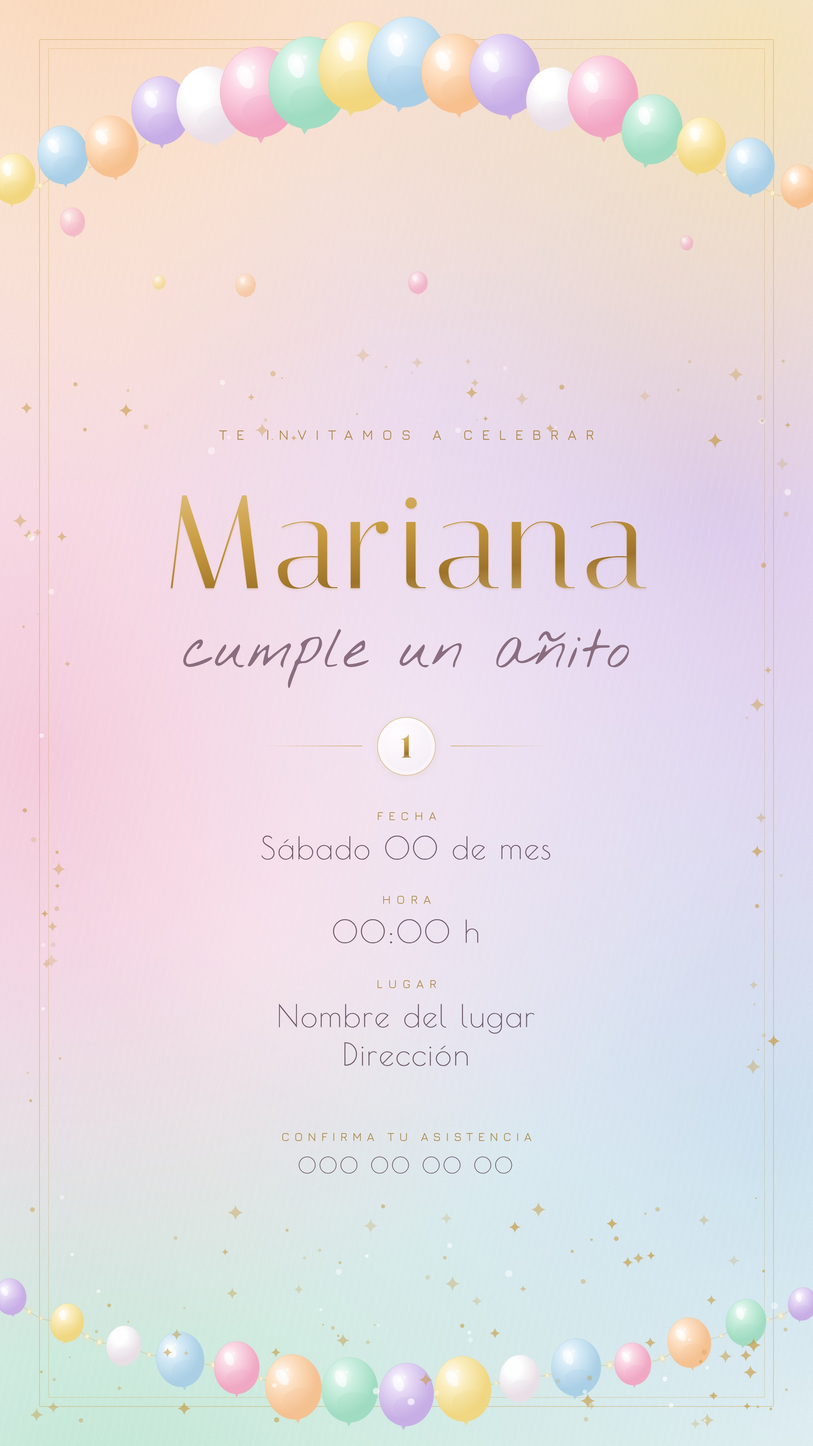
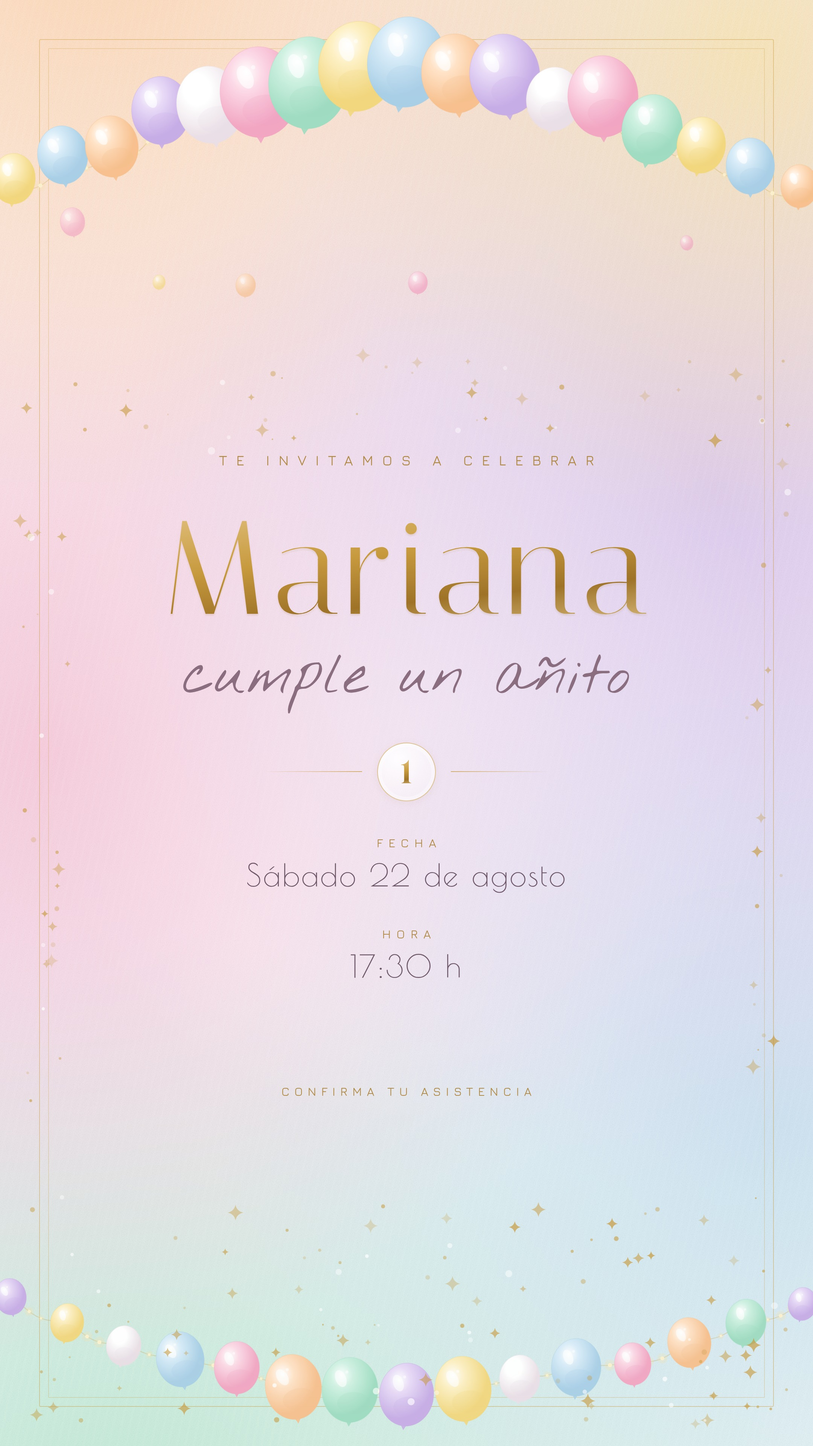
Rellenar fecha y hora de la fiesta en la invitación
- Fecha: sábado 22 de agosto · Hora: 17:30 h.
- Se retiran los marcadores de lugar y teléfono en lugar de dejar ceros de
  relleno; la confirmación se resuelve respondiendo al propio WhatsApp.
- Composición reequilibrada al pasar de tres bloques de datos a dos.
- Textos de WhatsApp y encargo de pastelería actualizados con la fecha real.

Claude-Session: https://claude.ai/code/session_01VeqhSidUQoU21J8bTqbbbz

Changed region(s): [[0.4653, 0.3438, 0.8065, 0.625], [0.1861, 0.3438, 0.5273, 0.5], [0.4963, 0.625, 0.5273, 0.6875]]

diff --git a/mariana-cumple-1/src/invitacion.html b/mariana-cumple-1/src/invitacion.html
@@ -49,7 +49,7 @@ svg{display:block}
 .arco-pie{bottom:0}
 
 /* ---- bloque central ---- */
-.centro{position:absolute;left:0;right:0;top:566px;height:1020px;
+.centro{position:absolute;left:0;right:0;top:600px;height:1020px;
   display:flex;flex-direction:column;align-items:center;text-align:center}
 
 .medallon{position:relative;width:78px;height:78px;border-radius:50%;
@@ -79,7 +79,7 @@ svg{display:block}
   background:linear-gradient(90deg,rgba(199,154,62,0),rgba(199,154,62,.75))}
 .filete>span:last-child{background:linear-gradient(90deg,rgba(199,154,62,.75),rgba(199,154,62,0))}
 
-.datos{position:relative;margin-top:44px;display:flex;flex-direction:column;gap:34px}
+.datos{position:relative;margin-top:46px;display:flex;flex-direction:column;gap:44px}
 .dato{display:flex;flex-direction:column;align-items:center;gap:9px}
 .dato .et{font-family:'Jura',sans-serif;font-weight:500;font-size:16px;
   letter-spacing:.46em;text-indent:.46em;color:#B08A46;text-transform:uppercase}
@@ -87,7 +87,7 @@ svg{display:block}
   letter-spacing:.045em;color:#6E586A}
 .dato .va b{font-weight:400;font-family:'Poiret',sans-serif}
 
-.pie{position:absolute;left:0;right:0;bottom:356px;text-align:center}
+.pie{position:absolute;left:0;right:0;bottom:462px;text-align:center}
 .pie .rsvp{font-family:'Jura',sans-serif;font-weight:500;font-size:16px;
   letter-spacing:.40em;text-indent:.40em;color:#B08A46;text-transform:uppercase}
 .pie .tel{margin-top:12px;font-family:'Poiret',sans-serif;font-size:29px;
@@ -112,15 +112,13 @@ svg{display:block}
       <div class="medallon"><span>1</span></div>
       <span></span></div>
     <div class="datos">
-      <div class="dato"><div class="et">Fecha</div><div class="va">Sábado 00 de mes</div></div>
-      <div class="dato"><div class="et">Hora</div><div class="va">00:00 h</div></div>
-      <div class="dato"><div class="et">Lugar</div><div class="va">Nombre del lugar<br><b>Dirección</b></div></div>
+      <div class="dato"><div class="et">Fecha</div><div class="va">Sábado 22 de agosto</div></div>
+      <div class="dato"><div class="et">Hora</div><div class="va">17:30 h</div></div>
     </div>
   </div>
 
   <div class="pie">
     <div class="rsvp">Confirma tu asistencia</div>
-    <div class="tel">000 00 00 00</div>
   </div>
 </div>
 

diff --git a/mariana-cumple-1/mensaje-whatsapp.md b/mariana-cumple-1/mensaje-whatsapp.md
@@ -6,29 +6,30 @@ Envía la imagen `salida/invitacion-mariana.jpg` y acompáñala con uno de estos
 
 > 🤍 ¡Mariana cumple su primer añito!
 > Nos hace mucha ilusión celebrarlo contigo.
-> 📅 [día y fecha] · 🕔 [hora]
+> 📅 Sábado 22 de agosto · 🕔 17:30 h
 > 📍 [lugar y dirección]
 > Confírmanos si puedes venir para que no falte de nada. ¡Te esperamos!
 
 **Opción breve**
 
 > ¡Mariana cumple 1! 🎈
-> Te esperamos el [fecha] a las [hora] en [lugar].
+> Te esperamos el sábado 22 de agosto a las 17:30 en [lugar].
 > Confirma asistencia por aquí 💛
 
 **Opción para grupo familiar**
 
 > Hola a todos 🤍
-> Mariana cumple su primer añito y queremos celebrarlo con vosotros.
-> Os dejo la invitación con todos los datos. Decidme quién viene y cuántos sois,
+> Mariana cumple su primer añito y queremos celebrarlo con vosotros
+> el sábado 22 de agosto a las 17:30.
+> Os dejo la invitación. Decidme quién viene y cuántos sois,
 > así organizamos la comida y la tarta. ¡Nos vemos!
 
 ---
 
-### Datos que faltan por rellenar en la invitación
-La imagen está montada con estos huecos; dime los reales y la vuelvo a generar:
+### Estado de los datos
 
-- **Fecha:** Sábado 00 de mes
-- **Hora:** 00:00 h
-- **Lugar:** Nombre del lugar + dirección
-- **Teléfono de confirmación:** 000 00 00 00
+- **Fecha:** sábado 22 de agosto ✔ ya está en la imagen
+- **Hora:** 17:30 h ✔ ya está en la imagen
+- **Lugar:** pendiente — se puede añadir bajo la hora, hay hueco reservado
+- **Confirmación:** la invitación dice «Confirma tu asistencia», sin teléfono,
+  porque va por WhatsApp y se responde en el propio chat

diff --git a/mariana-cumple-1/encargo-pasteleria.md b/mariana-cumple-1/encargo-pasteleria.md
@@ -12,7 +12,7 @@ imagen del diseño elegido (`salida/tarta-0X-....jpg`).
 > para 25–30 raciones. La decoración de la fiesta es en tonos pastel iridiscentes
 > (melocotón, rosa, lila, azul agua y menta) con detalles dorados, y me gustaría que la
 > tarta siguiera esa misma paleta. ¿Me podéis decir precio y si la tenéis disponible
-> para el día [FECHA]? ¡Gracias!
+> para el sábado 22 de agosto por la tarde? La fiesta empieza a las 17:30. ¡Gracias!
 
 ---
 
